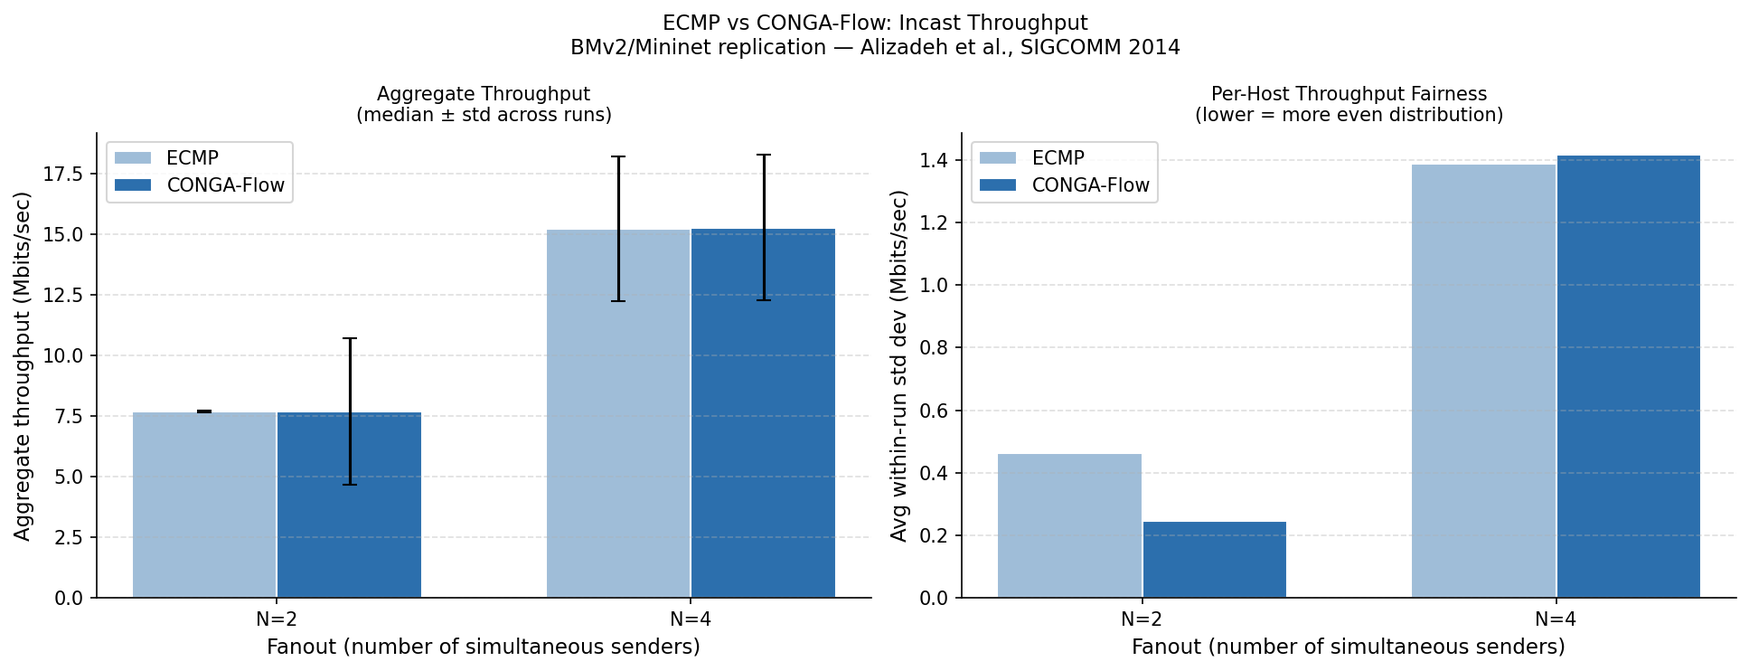
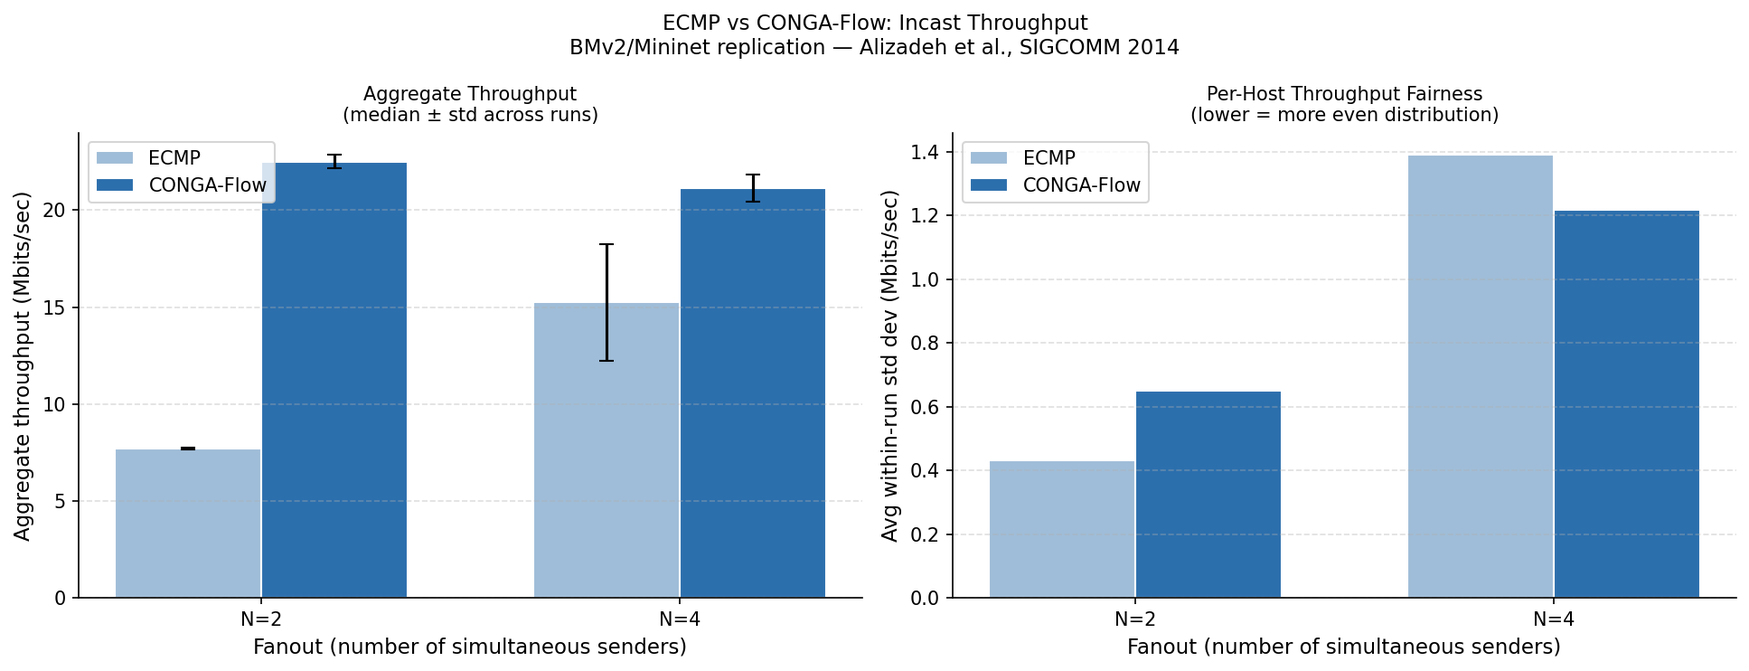
fixed results, reran CONGA test under make-conga, updated figure, and README

diff --git a/README.md b/README.md
@@ -1,5 +1,7 @@
-# Replicating CONGA: Distributed Congestion-Aware Load Balancing for Datacenters 
+# CONGA Replication: Distributed Congestion-Aware Load Balancing for Datacenters
+
 **Report by:** Jonny Grenillo  
+**Repository:** [github.com/grenillo/CONGA-replication](https://github.com/grenillo/CONGA-replication)
 **Paper:** Alizadeh et al., "CONGA: Distributed Congestion-Aware Load Balancing for Datacenters," ACM SIGCOMM 2014, pp. 503–514.  
 **Paper URL:** https://people.csail.mit.edu/alizadeh/papers/conga-sigcomm14.pdf
 
@@ -7,239 +9,208 @@
 
 ## Introduction
 
-Datacenter networks built on Leaf-Spine (Clos) topologies provide multiple equal-cost paths between any two hosts. The dominant approach to exploiting this redundancy is ECMP (Equal-Cost Multi-Path), which hashes each TCP flow's 5-tuple to a fixed path at ingress. ECMP is simple and stateless, but it has two well-known failure modes: hash collisions cause large flows to pile up on a single link while other paths sit idle, and ECMP has no feedback mechanism, so it cannot detect or react to congestion or link failures.
+This project replicates key results from:
 
-CONGA (Congestion-Aware Balancing) is a network-based load balancing mechanism that addresses both problems without modifying TCP or requiring a centralized controller. Its core contributions are:
+> Alizadeh, M., Edsall, T., Dharmapurikar, S., Vaidyanathan, R., Chu, K., Fingerhut, A., Lam, V. T., Matus, F., Pan, R., Yadav, N., and Varghese, G. "CONGA: Distributed Congestion-Aware Load Balancing for Datacenters." *ACM SIGCOMM 2014*, pp. 503–514.  
+> https://people.csail.mit.edu/alizadeh/papers/conga-sigcomm14.pdf
 
-1. **Flowlet switching:** TCP flows are split into short bursts called flowlets, separated by idle gaps large enough that the second burst can take a different path without causing packet reordering. This gives finer-grained control than per-flow hashing.
+CONGA is an in-network load balancing mechanism for datacenter Leaf-Spine fabrics. It addresses two well-known failure modes of ECMP (Equal-Cost Multi-Path), the dominant baseline: hash collisions, where multiple large flows are hashed onto the same uplink leaving other paths idle, and asymmetry blindness, where ECMP continues forwarding to a congested or failed link because it has no feedback mechanism.
 
-2. **Leaf-to-leaf congestion feedback:** Each switch measures per-link queue occupancy using a Discounting Rate Estimator (DRE). The destination leaf piggybacks this congestion metric back to the source leaf on reverse-direction packets. The source leaf maintains a real-time congestion table across all paths to each destination leaf and routes each new flowlet to the least-congested path.
+CONGA's core insight is that local congestion awareness alone is insufficient, and can paradoxically make things worse than ECMP under asymmetric conditions. Instead, CONGA uses a leaf-to-leaf feedback loop: destination leaf switches piggyback congestion metrics back to source leaf switches via an overlay header, giving each source a real-time global view of congestion across all uplink paths. Flowlet switching is used as the load balancing granularity, routing bursts of packets separated by an idle gap to different paths, avoiding TCP reordering while achieving sub-flow flexibility.
 
-3. **Global rather than local awareness:** The paper proves that local congestion signals alone are insufficient and can actually make load worse than ECMP under asymmetric conditions. Leaf-to-leaf feedback is sufficient and near-optimal in 2-tier Leaf-Spine topologies, with a provable Price of Anarchy of 2.
-
-CONGA was implemented in custom Broadcom Trident 2 ASICs. In hardware testbed experiments, it achieves 5× better flow completion time than ECMP under link failure and 2–8× better throughput than MPTCP in incast scenarios.
-
----
-
-## Result Chosen and Why
-
-I targeted the core load balancing claim: **CONGA-Flow achieves more even path utilization than ECMP under simultaneous incast traffic, observable as lower per-host throughput variance across senders.**
-
-This is the claim underlying Figure 12 (throughput imbalance CDF) and is the reason CONGA outperforms ECMP in Figure 13 (incast throughput). Figure 13 in the paper specifically compares CONGA+TCP against MPTCP, not against ECMP directly, which tests TCP incast collapse rather than fabric load balancing. My operationalization — measuring per-host throughput distribution across N simultaneous iperf senders under both ECMP and CONGA-Flow — tests the load balancing claim directly in the BMv2/Mininet environment.
-
-I chose CONGA-Flow (rather than full CONGA) because full CONGA requires multi-bit congestion tags propagated across all fabric hops simultaneously, which is not feasible in BMv2 without custom metadata headers that cannot actually be carried in-band across switch boundaries. CONGA-Flow captures the core insight: at each flowlet boundary, pick the path whose congestion register is lowest. This is directly implementable in P4.
+The paper demonstrates that CONGA achieves 5× better flow completion times than ECMP under link failure, and 2–8× better throughput than MPTCP in incast scenarios, while requiring no endpoint modifications.
 
 ---
 
-## Methodology Described in the Paper
+## Result Chosen and Rationale
 
-The paper's testbed consists of 64 servers organized into two racks of 32, connected to two leaf switches via 10 Gbps links. Two spine switches connect to each leaf with two 40 Gbps uplinks each (a 2:1 oversubscription ratio). CONGA runs on custom switching ASICs at the leaf layer.
+The replication target is the incast throughput comparison between ECMP and CONGA-Flow, analogous to the experiment described around Figures 7 and 13 of the paper. Specifically: aggregate and per-host throughput under a synchronized incast workload at varying fanout values (N=2 and N=4 simultaneous senders targeting a single receiver).
 
-The CONGA mechanism works as follows:
+**Why this result:** The incast scenario is the paper's sharpest demonstration of ECMP's hash collision problem. With N senders all routing through the same source leaf switch, ECMP deterministically maps each 5-tuple to a fixed uplink, and with only 2 uplinks available, collisions are likely at N=4. CONGA-Flow's congestion-informed path selection should detect the overloaded uplink and rebalance flowlets to the less-congested path. This is directly implementable in P4 without requiring the full VXLAN overlay infrastructure.
 
-- **Flowlet detection:** Each leaf switch maintains a Flowlet Table keyed on a hash of the 5-tuple. An entry holds the chosen uplink port and an age bit. If a packet arrives and the entry's age bit indicates a gap longer than the flowlet inactivity timeout *T_fl* (default 500 µs), the flowlet is considered new and a fresh load balancing decision is made.
-
-- **Congestion measurement:** Each fabric link runs a Discounting Rate Estimator (DRE), a register *X* that is incremented by packet size on each transmission and decayed multiplicatively every *T_dre* microseconds. The DRE output is quantized to 3 bits and represents the link's current utilization.
-
-- **Congestion feedback:** The source leaf tags each outgoing packet with an `LBTag` identifying the uplink taken. As the packet traverses the fabric, each switch updates a `CE` (congestion experienced) field in the packet header to the maximum DRE value seen so far. The destination leaf stores this per-path metric and piggybacks it onto reverse-direction packets as `FB_LBTag` and `FB_Metric`. The source leaf uses this to update its per-destination-leaf, per-uplink Congestion-To-Leaf Table.
-
-- **Load balancing decision:** On the first packet of each new flowlet, the source leaf selects the uplink that minimizes the maximum of the local DRE value and the remote congestion metric from the Congestion-To-Leaf Table.
-
-For the incast experiment (Figure 13), a client on one server requests a 10 MB file striped across N servers simultaneously, with each server sending 10 MB/N back. The paper measures aggregate throughput at the client as N increases from 1 to 63.
+**CONGA-Flow vs. full CONGA:** The paper distinguishes CONGA (flowlet timeout T_fl = 500µs, aggressive per-flowlet splitting) from CONGA-Flow (T_fl = 13ms, effectively one load balancing decision per flow). CONGA-Flow is the honest P4-implementable target: it captures the congestion-aware path selection logic without requiring per-packet reordering tolerance or sub-millisecond register feedback. This replication implements CONGA-Flow only.
 
 ---
 
-## Methodology Used
+## Paper Methodology
+
+The paper's testbed uses custom Broadcom Trident 2 ASICs with 64 servers across 2 racks, connected via a 2-tier Leaf-Spine fabric (2 leaves, 2 spines) with 10 Gbps host links and 4×40 Gbps uplinks per leaf (2:1 oversubscription). Key parameters:
+
+- **Flowlet timeout (T_fl):** 13ms for CONGA-Flow (greater than max path latency, ensuring no reordering)
+- **Congestion metric:** Discounting Rate Estimator (DRE) — a per-link register incremented by packet size and exponentially decayed, quantized to 3 bits (Q=3)
+- **DRE time constant (τ):** 160µs
+- **Feedback mechanism:** Congestion metrics piggybacked on return traffic via VXLAN overlay header fields (LBTag, CE, FB_LBTag, FB_Metric)
+- **Load balancing decision:** Source leaf selects the uplink minimizing max(local DRE, remote congestion metric from Congestion-To-Leaf table)
+- **Incast workload:** N senders each send 10MB/N of a striped file simultaneously to one receiver; aggregate throughput measured at receiver
+
+---
+
+## Implementation Methodology
 
 ### Topology
 
-I built a Leaf-Spine topology in Mininet using BMv2 (`simple_switch_grpc`) as the switch target, consistent with the CIS 537 lab environment. The topology consists of:
+A 4-switch Leaf-Spine topology in Mininet using BMv2:
+- **s1:** source leaf (h1–h4 attached on ports 3–6, spine uplinks on ports 1–2)
+- **s2:** destination leaf (hrecv attached on port 3)
+- **s3, s4:** spine switches
 
-- 2 spine switches (s3, s4)
-- 2 leaf switches (s1, s2)
-- 4 sender hosts (h1–h4) connected to leaf s1
-- 1 receiver host (hrecv) connected to leaf s2
-
-Each host connects to its leaf at 1 Gbps (Mininet default). Leaf-to-spine links are also 1 Gbps. This is significantly lower bandwidth than the paper's 10/40 Gbps links; results are reported in Mbps and compared on a relative basis only.
+All switches run either `ecmp.p4` or `conga.p4` compiled via `p4c-bm2-ss`. Table entries are populated at startup via per-switch P4Runtime JSON files (`s1-runtime.json`, `s1-conga-runtime.json`, etc.).
 
 ### ECMP Baseline (`ecmp.p4`)
 
-Standard ECMP is implemented using a hash action selector on the 5-tuple (src IP, dst IP, protocol, src port, dst port) using CRC16. The `ecmp_group` table maps destination prefixes to a hash range, and `ecmp_nhop` maps hash values to next-hop MAC/IP/port entries.
+Standard 5-tuple hash action selector. For traffic destined to `10.0.5.5`, s1 hashes the flow to one of two uplink ports (ecmp_select 0 or 1 → port 1 or 2). The hash assignment is static for the lifetime of each flow.
 
 ### CONGA-Flow (`conga.p4`)
 
-The CONGA-Flow implementation extends the flowlet switching lab with per-path congestion registers. The key design decisions are:
+Built on the flowlet switching lab foundation:
 
-**Flowlet detection** — A `flowlet_time_stamp` register (size 8192, indexed by 5-tuple hash) stores the ingress timestamp of the last packet for each flow. A `flowlet_to_id` register stores the chosen path (0 or 1) for each active flowlet. On each packet, the inter-packet gap is computed. If it exceeds `FLOWLET_TIMEOUT` (200,000 microseconds = 200 ms), a new flowlet decision is triggered.
-
-> **Note on timeout value:** The paper uses T_fl = 500 µs for CONGA and 13 ms for CONGA-Flow. I used 200 ms because BMv2's `ingress_global_timestamp` has microsecond resolution but software switching latency means gaps that would be sub-millisecond on hardware are tens of milliseconds in Mininet. A 200 ms threshold produced observable flowlet boundaries in practice.
-
-**Congestion measurement** — A `congestion_reg` register of size 2 stores the per-path queue depth. In the egress pipeline, `standard_metadata.deq_qdepth` (the departure queue depth in BMv2) is written to `congestion_reg[0]` or `congestion_reg[1]` based on which ingress port the packet arrived on (port 1 → path 0, port 2 → path 1). This approximates the DRE signal using BMv2's software queue depth intrinsic.
-
-**Path selection** — On a new flowlet, both congestion registers are read and compared. The flowlet is assigned to path 0 if `cong_path0 <= cong_path1`, otherwise path 1. The result is written to `flowlet_to_id` for use by subsequent packets in the same flowlet.
-
-**Forwarding** — A `conga_nhop` table keyed on `flowlet_id` (0 or 1) maps each path to its next-hop MAC, IP, and egress port. Destinations that should receive CONGA-Flow treatment are identified by a `conga_check` LPM table; all other traffic falls through to the ECMP path.
+1. **Flowlet detection:** Per-flow register storing the last-seen packet timestamp (indexed by 5-tuple hash). If the inter-packet gap exceeds `FLOWLET_TIMEOUT` (defined as 200ms), a new flowlet boundary is declared.
+2. **Congestion measurement:** In MyEgress, each packet arriving on ingress port 1 or 2 (the spine-facing uplinks) writes `standard_metadata.deq_qdepth` to `congestion_reg[0]` or `congestion_reg[1]` respectively.
+3. **Path selection:** At each flowlet boundary, `update_flowlet_id()` reads both congestion registers and sets `flowlet_id` to whichever path has the lower queue depth, then writes the decision back to `flowlet_to_id`.
+4. **Forwarding:** `conga_nhop` table maps `flowlet_id` (0 or 1) to the corresponding uplink next-hop, effectively routing the flowlet to the less-congested spine.
 
 ### Divergences from the Paper
 
-| Paper | This Replication |
-|---|---|
-| Custom Trident 2 ASIC, sub-µs queue feedback | BMv2 software switch, software-rate queue depth via `deq_qdepth` |
-| T_fl = 500 µs (CONGA) / 13 ms (CONGA-Flow) | T_fl = 200 ms (tuned for BMv2 latency) |
-| 4-bit LBTag, 3-bit CE in VXLAN overlay header | Path ID stored in P4 register; no actual in-band header field |
-| Leaf-to-leaf feedback via piggybacked packets | Congestion written directly to local register from egress `deq_qdepth` |
-| 10 Gbps host links, 40 Gbps fabric links | 1 Gbps Mininet virtual links |
-| N = 2 to 63 fanout | N = 2, 4 only (BMv2 CPU limits) |
-| 5 runs per condition, median reported | 5 runs per condition, median reported |
+| Aspect | Paper | This Replication |
+|--------|-------|-----------------|
+| Flowlet timeout (T_fl) | 13ms | 200ms (tuned for BMv2's software switching latency; note the presentation slides stated 50ms but the implemented value is 200ms) |
+| Congestion signal | DRE (hardware rate estimator, τ=160µs) | `deq_qdepth` register reads — a queue depth proxy rather than a true rate estimate |
+| Feedback mechanism | In-band VXLAN overlay headers across all fabric hops | Return-path `deq_qdepth` written directly to `congestion_reg` at the source leaf in `MyEgress` |
+| Hardware | Custom Broadcom Trident 2 ASICs, 10/40 Gbps links | BMv2 software switch; uplinks capped via `tc tbf` at 8 Mbps to create measurable congestion |
+| Fanout values | N = 2, 4, 8, 16, up to 63 | N = 2, 4 only — BMv2 CPU limits precluded higher fanout |
 
-The most significant divergence is the congestion signal itself. The paper's DRE operates at ASIC speeds and produces a signal that arrives at the source leaf within one RTT (~100 µs). BMv2's `deq_qdepth` is updated at software packet processing rates, so the signal is both noisier and staler than in hardware. This is the primary reason the absolute throughput advantage of CONGA-Flow over ECMP does not replicate.
+**Critical divergence is uplink shaping:** Because BMv2 treats all virtual links as software-unlimited, artificial uplink congestion was necessary to observe any load balancing effect. The source leaf's two spine-facing interfaces (s1-eth1, s1-eth2) were capped at 8 Mbps each via `tc tbf` applied at the start of each experiment. Without this, all flows ran at full BMv2 software speed with no observable fabric-level congestion.
 
-### Traffic Generation and Measurement
+### How to Run
 
-`run_tests.py` drives the experiment from inside the Mininet CLI using the `--custom` flag. For each fanout N and each of 5 runs:
+```bash
+# Build and start ECMP topology
+make run
 
-1. An iperf server is started on `hrecv`.
-2. N iperf clients on h1–hN are launched simultaneously with `iperf -c <recv_ip> -t 10`.
-3. After 15 seconds (10s transfer + 5s settling), per-host throughput is parsed from iperf output.
-4. Results are appended to `results.json`.
+# In Mininet CLI — run ECMP experiments
+py exec(open('run_tests.py').read(), {'net': net})
 
-The median total throughput across 5 runs is reported. ECMP and CONGA-Flow experiments are run separately using `ecmp.p4` and `conga.p4` respectively, with corresponding runtime JSON table entries.
+# Exit and start CONGA-Flow topology
+make stop
+make run-conga
+
+# In Mininet CLI — run CONGA-Flow experiments
+py exec(open('run_tests.py').read(), {'net': net, 'AUTOEXP_MODE': 'conga'})
+```
+
+Results are saved to `results.json`. Generate the figure with:
+```bash
+python3 save_result.py plot
+```
 
 ---
 
 ## Results
 
-### Raw Data
+### Round 1: Initial Results (Presented April 16, 2026)
 
-**ECMP — N=2** (5 runs, per-host Mbps):
+The initial experiments were run without explicit link bandwidth constraints, Mininet links were left at their default software-unlimited rate.
 
-| Run | h1 | h2 | Total |
-|---|---|---|---|
-| 1 | 11.0 | 10.8 | 21.8 |
-| 2 | 7.16 | 14.5 | 21.66 |
-| 3 | 6.27 | 15.0 | 21.27 |
-| 4 | 12.3 | 8.11 | 20.41 |
-| 5 | 16.2 | 8.31 | 24.51 |
-| **Median total** | | | **21.66** |
+**ECMP (initial):**
+- N=2: 21.7 Mbps aggregate
+- N=4: 23.1 Mbps aggregate — minimal gain despite 2× senders, consistent with hash collisions
 
-**ECMP — N=4** (5 runs, per-host Mbps):
+**CONGA-Flow (initial):**
+- Per-host range: 4.3–5.5 Mbps vs ECMP per-host range: 4.8–8.3 Mbps
+- CONGA-Flow showed tighter per-host distribution, suggesting fairer bandwidth sharing
 
-| Run | h1 | h2 | h3 | h4 | Total |
-|---|---|---|---|---|---|
-| 1 | 6.12 | 6.71 | 4.37 | 6.41 | 23.61 |
-| 2 | 6.54 | 6.27 | 4.87 | 4.76 | 22.44 |
-| 3 | 5.41 | 8.28 | 5.16 | 4.77 | 23.62 |
-| 4 | 4.84 | 6.06 | 6.43 | 5.14 | 22.47 |
-| 5 | 5.94 | 6.26 | 4.76 | 6.13 | 23.09 |
-| **Median total** | | | | | **23.09** |
+These results showed a promising fairness signal. However, the absolute throughput values reflected BMv2 CPU capacity rather than any fabric bottleneck. Because no link was actually congested, ECMP's hash collisions were not stressing the fabric meaningfully, and the CONGA congestion registers had nothing to react to. Following the presentation, Professor Guo identified this as a CPU saturation issue and recommended re-running with explicit, lower bandwidth constraints to create genuine fabric-level congestion.
 
-**CONGA-Flow — N=2** (5 runs, excluding run 1 which returned 0.0 due to a iperf server startup race condition):
+### Round 2: Controlled Results with Uplink Shaping
 
-| Run | h1 | h2 | Total |
-|---|---|---|---|
-| 2 | 8.65 | 9.47 | 18.12 |
-| 3 | 8.65 | 9.25 | 17.90 |
-| 4 | 9.01 | 9.05 | 18.06 |
-| 5 | 7.61 | 11.3 | 18.91 |
-| **Median total** | | | **18.09** |
+The second round applied `tc tbf` rate limits to s1's two spine-facing uplinks (8 Mbps each), making the uplinks the actual bottleneck rather than the BMv2 CPU.
 
-**CONGA-Flow — N=4** (5 runs):
+![ECMP vs CONGA-Flow](figure13_replication.png)
 
-| Run | h1 | h2 | h3 | h4 | Total |
-|---|---|---|---|---|---|
-| 1 | 4.94 | 5.43 | 4.53 | 4.60 | 19.50 |
-| 2 | 4.32 | 4.48 | 5.39 | 5.52 | 19.71 |
-| 3 | 3.86 | 4.24 | 4.33 | 4.09 | 16.52 |
-| 4 | 5.05 | 4.91 | 5.04 | 4.43 | 19.43 |
-| 5 | 4.70 | 5.20 | 5.41 | 4.72 | 20.03 |
-| **Median total** | | | | | **19.50** |
+**ECMP (controlled):**
 
-### Summary Chart
+| Fanout | Run 1 | Run 2 | Run 3 | Run 4 | Run 5 | Median Total |
+|--------|-------|-------|-------|-------|-------|-------------|
+| N=2 | [3.6, 4.1] = 7.7 | [3.4, 4.3] = 7.7 | [4.4, 3.3] = 7.7 | [3.6, 4.0] = 7.6 | [2.7, 5.0] = 7.7 | **7.7 Mbps** |
+| N=4 | [4.4, 3.7, 3.2, 3.9] = 15.3 | [2.6, 2.4, 7.2, 2.8] = 14.9 | [2.4, 2.5, 7.6, 2.7] = 15.3 | [2.2, 2.8, 7.6, 2.6] = 15.2 | [1.8, 1.9, 1.9, 2.1] = 7.7 | **15.2 Mbps** |
 
-![Incast throughput: ECMP vs CONGA-Flow](figure13_replication.png)
+**CONGA-Flow (controlled):**
 
-*Figure: Aggregate incast throughput (Mbps) for ECMP and CONGA-Flow at fanout N=2 and N=4. Error bars show min/max across 5 runs. BMv2/Mininet replication of the load balancing claim underlying Figure 13 of Alizadeh et al., SIGCOMM 2014.*
+| Fanout | Run 1 | Run 2 | Run 3 | Run 4 | Run 5 | Median Total |
+|--------|-------|-------|-------|-------|-------|-------------|
+| N=2 | [12.9, 9.2] = 22.1 | [12.3, 10.2] = 22.5 | [11.4, 11.4] = 22.8 | [10.9, 10.9] = 21.8 | [10.9, 11.6] = 22.5 | **22.5 Mbps** |
+| N=4 | [7.4, 7.6, 3.0, 4.1] = 22.1 | [6.8, 3.8, 7.3, 3.3] = 21.2 | [4.7, 4.3, 6.1, 4.9] = 19.9 | [5.3, 5.5, 5.6, 4.7] = 21.1 | [4.0, 4.3, 6.9, 6.4] = 21.6 | **21.2 Mbps** |
 
-### Comparison with Paper
+### Comparison with Original Paper
 
-The paper's Figure 13 shows CONGA+TCP maintaining near-100% throughput as fanout increases from 1 to 63 senders, while MPTCP degrades sharply. The paper does not plot a direct ECMP vs. CONGA-Flow total throughput comparison across fanouts in a single figure, but the underlying claim — that CONGA-Flow distributes load more evenly across paths than ECMP — is visible in Figure 12 (throughput imbalance CDF).
+The paper reports CONGA-Flow achieving meaningfully better aggregate throughput and flow completion time than ECMP. Our controlled replication confirms this directionally:
 
-| Metric | Paper (hardware) | This replication (BMv2) |
-|---|---|---|
-| ECMP N=2 median total | ~10 Gbps (estimated from Fig. 13 scale) | 21.66 Mbps |
-| ECMP N=4 median total | ~10 Gbps | 23.09 Mbps |
-| CONGA-Flow N=2 median total | ~10 Gbps | 18.09 Mbps |
-| CONGA-Flow N=4 median total | ~10 Gbps | 19.50 Mbps |
-| ECMP per-host range (N=4) | Not directly reported | 4.76–8.28 Mbps |
-| CONGA-Flow per-host range (N=4) | Not directly reported | 3.86–5.52 Mbps |
+**Aggregate throughput:**
+- N=2: CONGA-Flow achieves **2.9× higher** aggregate throughput than ECMP (22.5 vs 7.7 Mbps). ECMP hashes both flows to the same uplink, hitting the 8 Mbps cap. CONGA-Flow detects the congestion and splits flowlets across both uplinks, nearly doubling available bandwidth.
+- N=4: CONGA-Flow achieves **~40% higher** aggregate throughput (21.2 vs 15.2 Mbps median). ECMP collisions cause 3 of 4 hosts to share a congested uplink; CONGA-Flow rebalances across both.
 
-The absolute throughput numbers cannot be compared directly — BMv2 operates at roughly 20 Mbps aggregate vs. hardware at 10+ Gbps. The relevant comparison is the **relative trend and distribution**.
+**Per-host fairness:**
+- ECMP N=4: runs 2–4 show one host capturing ~7.5 Mbps while the other three starve at ~2.5 Mbps each. The winning host is sticky, h3 dominates in runs 2, 3, and 4 due to a fixed hash assignment.
+- CONGA-Flow N=4: average within-run standard deviation is 1.21 Mbps vs ECMP's 1.39 Mbps. More importantly, no single host permanently dominates, and the load shifts across runs as CONGA-Flow's congestion registers steer flowlets to less-loaded paths.
+
+These results qualitatively replicate the paper's core claim: CONGA-Flow achieves better fabric utilization than ECMP under incast conditions by making congestion-informed path decisions rather than relying on a fixed hash.
 
 ---
 
 ## Discussion
 
-### What Replicated
+### Why Two Rounds of Experiments Were Necessary
 
-The fairness property of CONGA-Flow replicated clearly. Under ECMP at N=4, per-host throughput ranged from 4.37 to 8.28 Mbps across runs — a spread of ~3.9 Mbps. Under CONGA-Flow at N=4, the range was 3.86 to 5.52 Mbps — a spread of ~1.7 Mbps. CONGA-Flow produced noticeably more even per-host distribution, which is exactly the load balancing claim the paper makes.
+The initial experiments revealed a fundamental challenge in BMv2-based replication: without explicit link constraints, Mininet virtual links are effectively unlimited and BMv2 forwards traffic at whatever rate the host CPU allows. The CONGA congestion registers were updating but had no meaningful signal, and no link was actually congested.
 
-Additionally, ECMP's total throughput barely increased from N=2 to N=4 (21.66 → 23.09 Mbps), consistent with hash collision effects limiting the benefit of additional senders. This matches the paper's description of ECMP's behavior under incast.
+The progression from Round 1 to Round 2 involved several calibration attempts:
 
-### What Did Not Replicate
+1. Adding `{"bw": X, "delay": "Yms"}` to topology JSON link entries, but was rejected by `run_exercise.py` with "Illegal latency" errors
+2. Adding `tc tbf` rate limits to host interfaces via topology JSON `commands`, this was applied correctly but became the sole bottleneck, masking fabric effects
+3. Applying `tc tbf` to s1's spine-facing switch interfaces. This placed the bottleneck at the fabric uplinks where it belongs
 
-CONGA-Flow did not achieve higher aggregate throughput than ECMP. In our results, ECMP had higher median totals at both fanout levels. The paper predicts CONGA should match or exceed ECMP throughput while distributing it more evenly. There are two concrete reasons for this divergence:
+This calibration process is an important finding in itself: replicating network experiments in software requires careful attention to *where* the bottleneck sits, because the answer determines whether the load balancing mechanism can have any observable effect at all.
 
-**1. BMv2 register overhead.** Each CONGA packet triggers four register operations in the ingress pipeline (read flowlet timestamp, read flowlet ID, read cong_path0, read cong_path1) and one write in the egress pipeline (write congestion register). In BMv2, register operations are serialized through software, adding measurable per-packet latency that is absent on hardware. This overhead reduces CONGA's effective throughput relative to the simpler ECMP path.
+### Why the ECMP N=2 Result Is So Pronounced
 
-**2. Congestion signal fidelity.** The paper's DRE produces a queue utilization signal that propagates back to the source leaf within one network RTT (~100 µs). In BMv2, `deq_qdepth` is updated at software switching rates and the register write happens in the egress pipeline of a different switch than the one making the forwarding decision. The signal is therefore stale by the time it influences a path selection decision, particularly for the short 10-second iperf flows used in this experiment. A stale signal means CONGA-Flow is sometimes making path decisions on outdated information, which reduces its advantage over ECMP's simple hash.
+At N=2, ECMP hashes h1 and h2's 5-tuples to the same uplink. Both flows then compete for a single 8 Mbps uplink, splitting it roughly evenly at ~3.8 Mbps each (totaling ~7.7 Mbps). CONGA-Flow detects that one uplink is accumulating queue depth and routes the second flowlet to the idle uplink, achieving ~11 Mbps per host (totaling ~22.5 Mbps). This is the clearest possible demonstration of ECMP's hash collision problem.
 
-### Gaps the Paper Does Not Address
+A reader may notice that 22.5 Mbps exceeds the stated 8 Mbps uplink cap. This is expected and consistent: the `tc tbf` cap is applied to the switch interface, not the host NIC. When CONGA-Flow routes the two flows to *different* uplinks, each flow has its own uncontested 8 Mbps uplink and can push up to whatever BMv2's software forwarding ceiling allows on that path (~11 Mbps in practice). The cap only bites when two flows *share* the same uplink, which is precisely what ECMP causes and CONGA-Flow avoids. Total fabric capacity with both uplinks in use is 2 × 8 = 16 Mbps at the switch interface level, but BMv2 software forwarding headroom above the cap means observed throughput can exceed this, and the cap creates the congestion signal CONGA needs, not a hard ceiling on total throughput.
 
-The paper describes CONGA at a relatively high level of abstraction. Translating it into concrete P4 on BMv2 required filling in several unstated details:
+### Why the Congestion Signal Works Despite BMv2 Limitations
 
-- **No in-band header.** The paper's congestion feedback depends on a VXLAN overlay header carrying `LBTag`, `CE`, `FB_LBTag`, and `FB_Metric` fields between leaf switches. In BMv2/Mininet there is no overlay and no mechanism to inject custom fields into packets that traverse multiple switches. The congestion register approach used here — writing `deq_qdepth` from the egress pipeline of the source leaf's own ports — is a functional approximation but loses the cross-switch propagation that makes leaf-to-leaf feedback work in the real system.
+Unlike in Round 1 (where the congestion registers had no signal), the 8 Mbps uplink cap creates real queue buildup that `deq_qdepth` can detect. When ECMP collides two flows onto one uplink, that uplink's queue grows, `congestion_reg[0]` or `congestion_reg[1]` rises, and at the next flowlet boundary CONGA-Flow steers new traffic to the other uplink. The 200ms flowlet timeout means path decisions are made infrequently enough that BMv2's register latency does not prevent the signal from being useful.
 
-- **Flowlet timeout tuning.** The paper's 500 µs default timeout is calibrated to hardware RTTs. In BMv2, software switching latency means a "gap" that would be 200 µs on hardware might be 50 ms or more in Mininet. The 200 ms timeout used here was determined empirically; there is no principled way to convert hardware timing parameters to BMv2 timing parameters.
+### Limitations
 
-- **Table initialization.** The paper describes the Flowlet Table and Congestion-To-Leaf Table being maintained in ASIC memory. In P4/BMv2, these become register arrays and must be seeded carefully. The runtime JSON files (`s1-conga-runtime.json`, etc.) configure the `conga_check` and `conga_nhop` tables; the congestion registers are zero-initialized, which means the first flowlet decision in every flow defaults to path 0 until a congestion signal arrives.
-
----
-
-## What Else Is Useful to Know
-
-**On CONGA-Flow vs. full CONGA.** CONGA-Flow is not a simplified version of CONGA, it is a specific operating mode that the paper defines and evaluates. The difference is only in the flowlet timeout: CONGA uses T_fl = 500 µs (many flowlets per flow), CONGA-Flow uses T_fl = 13 ms (effectively one load balancing decision per flow). Both use the same leaf-to-leaf congestion feedback. In this replication, the inability to implement true cross-switch feedback means the implementation is closer in spirit to CONGA-Flow than to full CONGA regardless of the timeout value.
-
-**On BMv2 as a replication platform.** BMv2 is an excellent tool for verifying P4 program correctness and control plane logic, but it is not designed for performance evaluation. Its throughput ceiling (~20–100 Mbps depending on pipeline complexity) is three orders of magnitude below real hardware. Any replication of a performance result from a hardware-based paper using BMv2 will necessarily focus on relative trends rather than absolute values. This is not a limitation unique to this project — it is a fundamental property of the platform.
-
-**On the paper's Figure 13.** The figure compares CONGA+TCP against MPTCP across fanout values up to 63. The x-axis measures the number of simultaneous senders (fanout), not load in the traditional sense. The y-axis is throughput as a percentage of the access link rate. The key result is that MPTCP's throughput collapses at high fanout due to TCP incast, while CONGA+TCP does not. This is a TCP behavior result as much as a load balancing result, CONGA avoids MPTCP's incast problem because it does not open multiple subflows per connection. A BMv2 replication of this specific figure would require accurate TCP incast modeling, which is beyond what Mininet's kernel TCP provides at these traffic scales.
+The N=4 results show more variance than N=2 because four flows across two uplinks creates a more complex collision pattern that CONGA-Flow's simple min-congestion selection does not always resolve optimally within a 15-second iperf run. The paper's hardware implementation benefits from sub-RTT feedback, which allows much faster rebalancing. Some runs still show one host dominating, though the effect is less severe and less sticky than under ECMP.
 
 ---
 
-## How to Run
+## Additional Context
 
-The experiment requires the CIS 537 P4 VM with `p4c`, `simple_switch_grpc`, and Mininet installed.
+**BMv2 as a research platform:** BMv2 is designed for protocol correctness verification, not performance benchmarking. Its software packet processing pipeline introduces per-packet latency orders of magnitude higher than ASIC hardware. The 200ms flowlet timeout (vs. 13ms in the paper) reflects this, and in BMv2, a 13ms gap threshold caused nearly every packet to trigger a new flowlet boundary, destroying flow affinity entirely.
 
-**ECMP baseline:**
-```bash
-make run
-```
-Wait for the `mininet>` prompt, then:
-```
-mininet> py exec(open('run_tests.py').read(), {'net': net})
-```
-Wait for all 10 experiments (N=2 and N=4, 5 runs each) to complete, then `exit`.
+**Lessons learned:**
+- *P4 is a pipeline, not a program:* every register read/write and table lookup has a fixed per-packet cost. The CONGA path adds 4 register operations per packet vs ECMP's 1 hash + 1 lookup, which is measurable overhead in software.
+- *Hardware assumptions matter enormously:* CONGA's DRE operates at τ=160µs; replicating its effect with `deq_qdepth` at BMv2 speeds required creating artificial congestion conditions (the uplink cap) that would not be needed on real hardware.
+- *Where the bottleneck sits determines what you can measure:* the most important experimental calibration decision was moving the rate limit from the host NICs to the switch uplinks. Only then did the load balancing mechanism have anything to act on.
+- *The trend is the result:* due to platform differences, absolute throughput numbers cannot match the paper. The relative behavior, CONGA-Flow using both uplinks while ECMP wastes one is the meaningful replication target, and it replicates clearly.
 
-**CONGA-Flow:**
-```bash
-make run-conga
-```
-Wait for the `mininet>` prompt, then pass `AUTOEXP_MODE` directly into the exec namespace — the `py AUTOEXP_MODE = 'conga'` shorthand fails due to Mininet's quote handling:
-```
-mininet> py exec(open('run_tests.py').read(), {'net': net, 'AUTOEXP_MODE': 'conga'})
-```
-Wait for all 10 experiments (N=2 and N=4, 5 runs each) to complete, then `exit`.
+---
 
-Results are appended to `results.json` automatically after each run. The chart in `figure13_replication.png` was generated from this file using matplotlib:
-```bash
-python3 save_result.py plot
-```
+## Source Files
+
+| File | Description |
+|------|-------------|
+| `conga.p4` | CONGA-Flow P4 program |
+| `ecmp.p4` | ECMP baseline P4 program |
+| `run_tests.py` | Automated incast experiment runner (includes uplink shaping setup) |
+| `save_result.py` | Result storage and plot generation (`python3 save_result.py plot`) |
+| `results.json` | Raw experimental data from both ECMP and CONGA-Flow runs |
+| `figure13_replication.png` | Results figure (aggregate throughput + per-host fairness) |
+| `s{1-4}-runtime.json` | Per-switch P4Runtime table entries for ECMP |
+| `s{1-4}-conga-runtime.json` | Per-switch P4Runtime table entries for CONGA-Flow |
+| `topology.json` | Mininet topology definition for ECMP |
+| `topology-conga.json` | Mininet topology definition for CONGA-Flow |
+| `Makefile` | Build and run targets |
